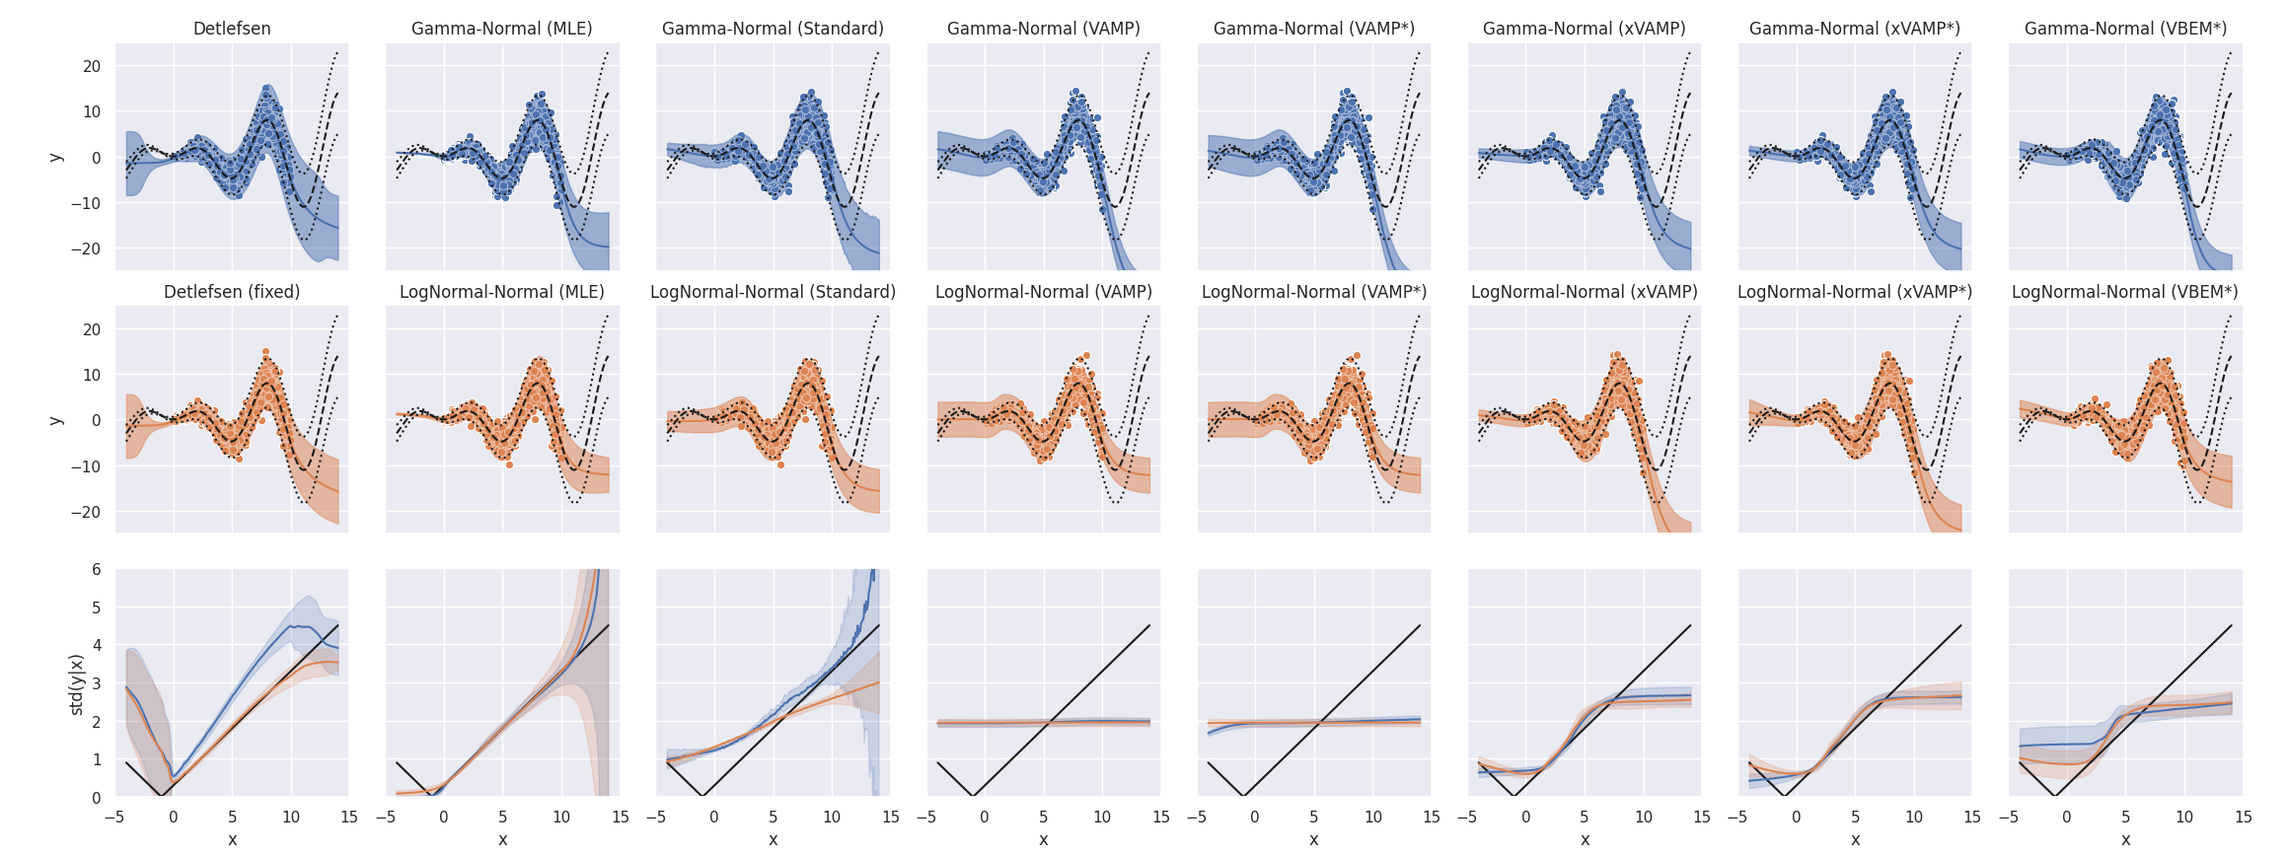
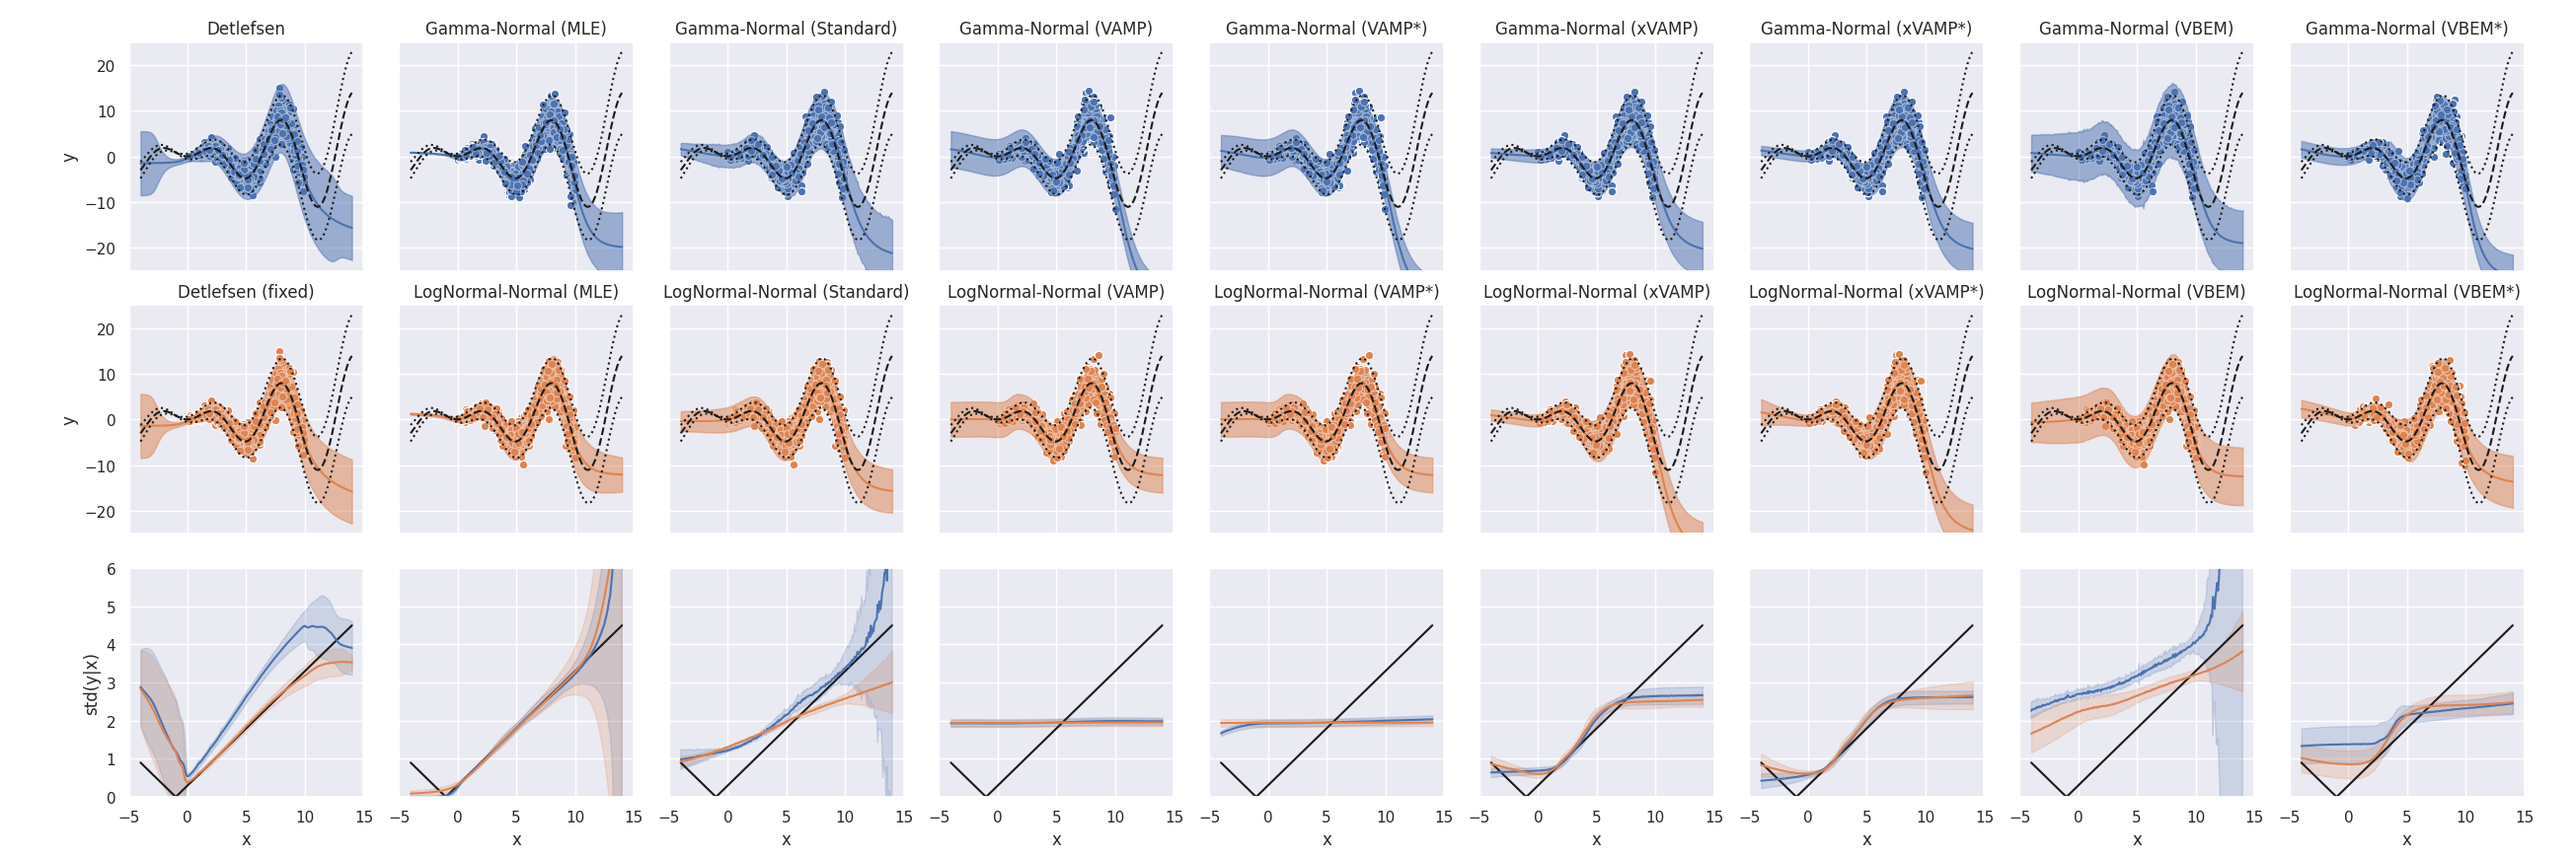
VBEM toy results. eliminated deprecated function from regression_analysis.py. added VBEM to run_regression_uci.sh.

diff --git a/regression_analysis.py b/regression_analysis.py
@@ -145,10 +145,6 @@ def exclude_log_normal(df, **kwargs):
     return df[df.Algorithm != 'LogNormal-Normal']
 
 
-def only_standards(df, **kwargs):
-    return df[(df.Prior == 'Standard') | (df.Prior == 'Standard*')]
-
-
 def uci_regression_analysis():
     # print result tables
     for iterations in [10000, 200000]:
